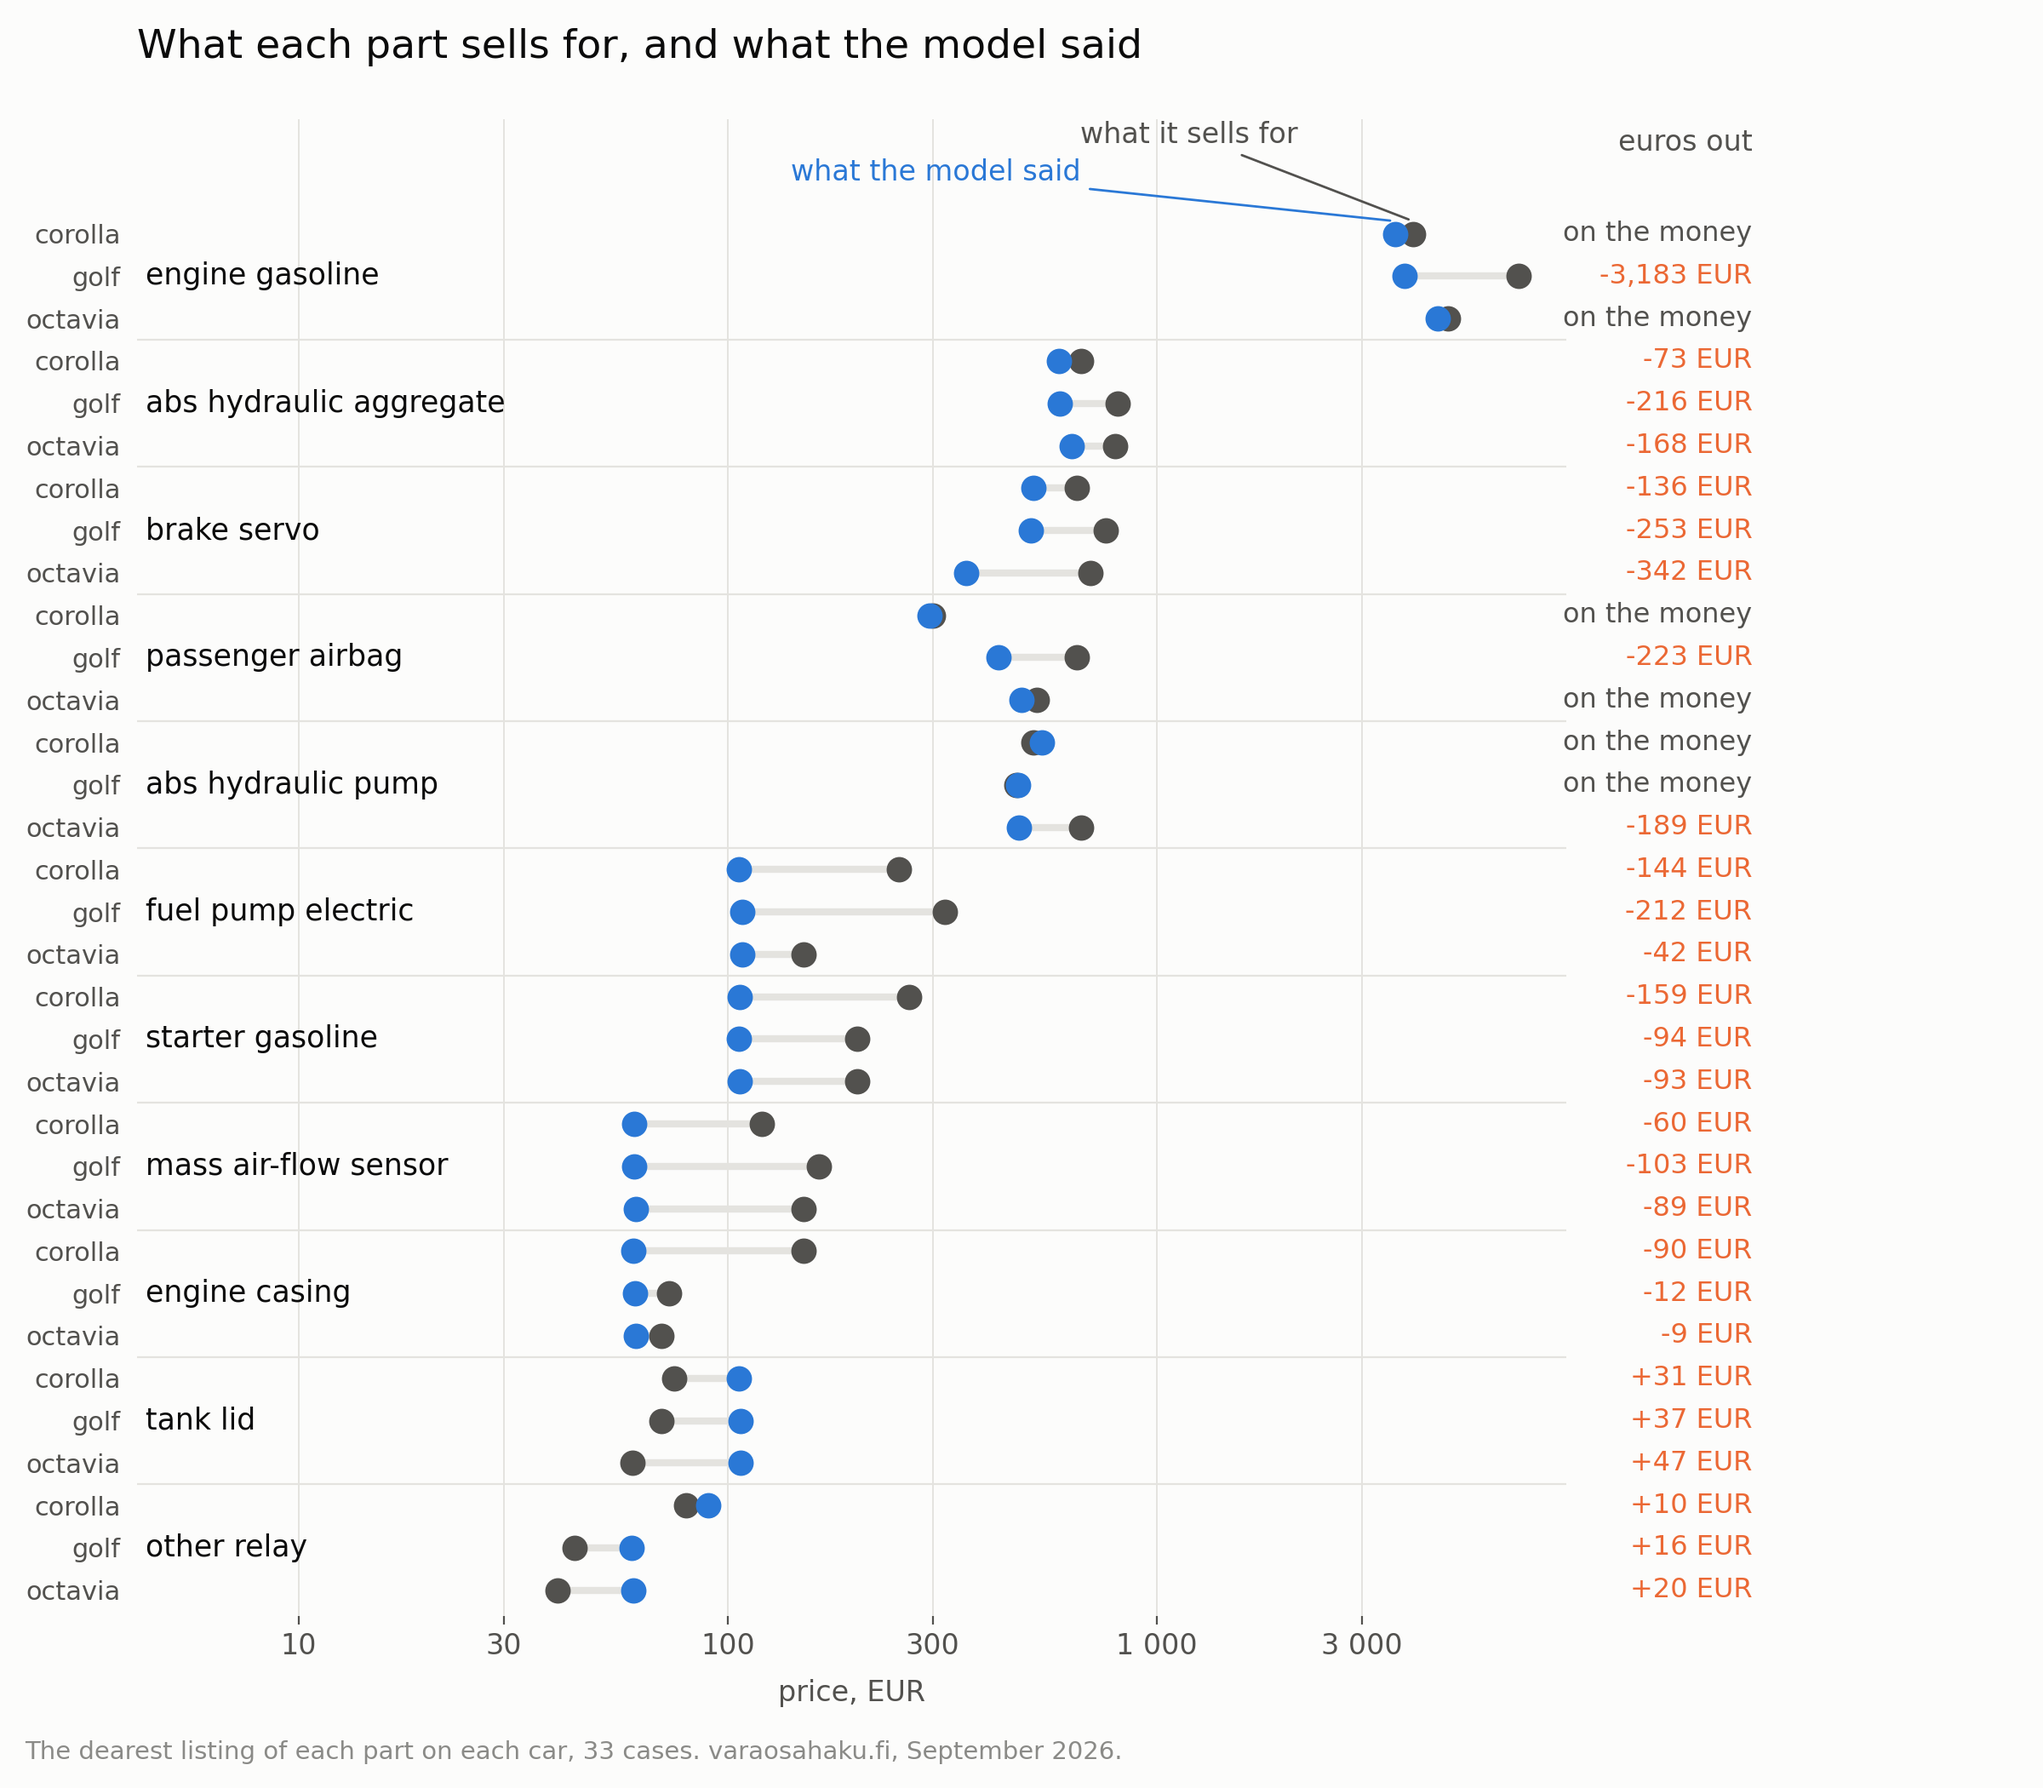
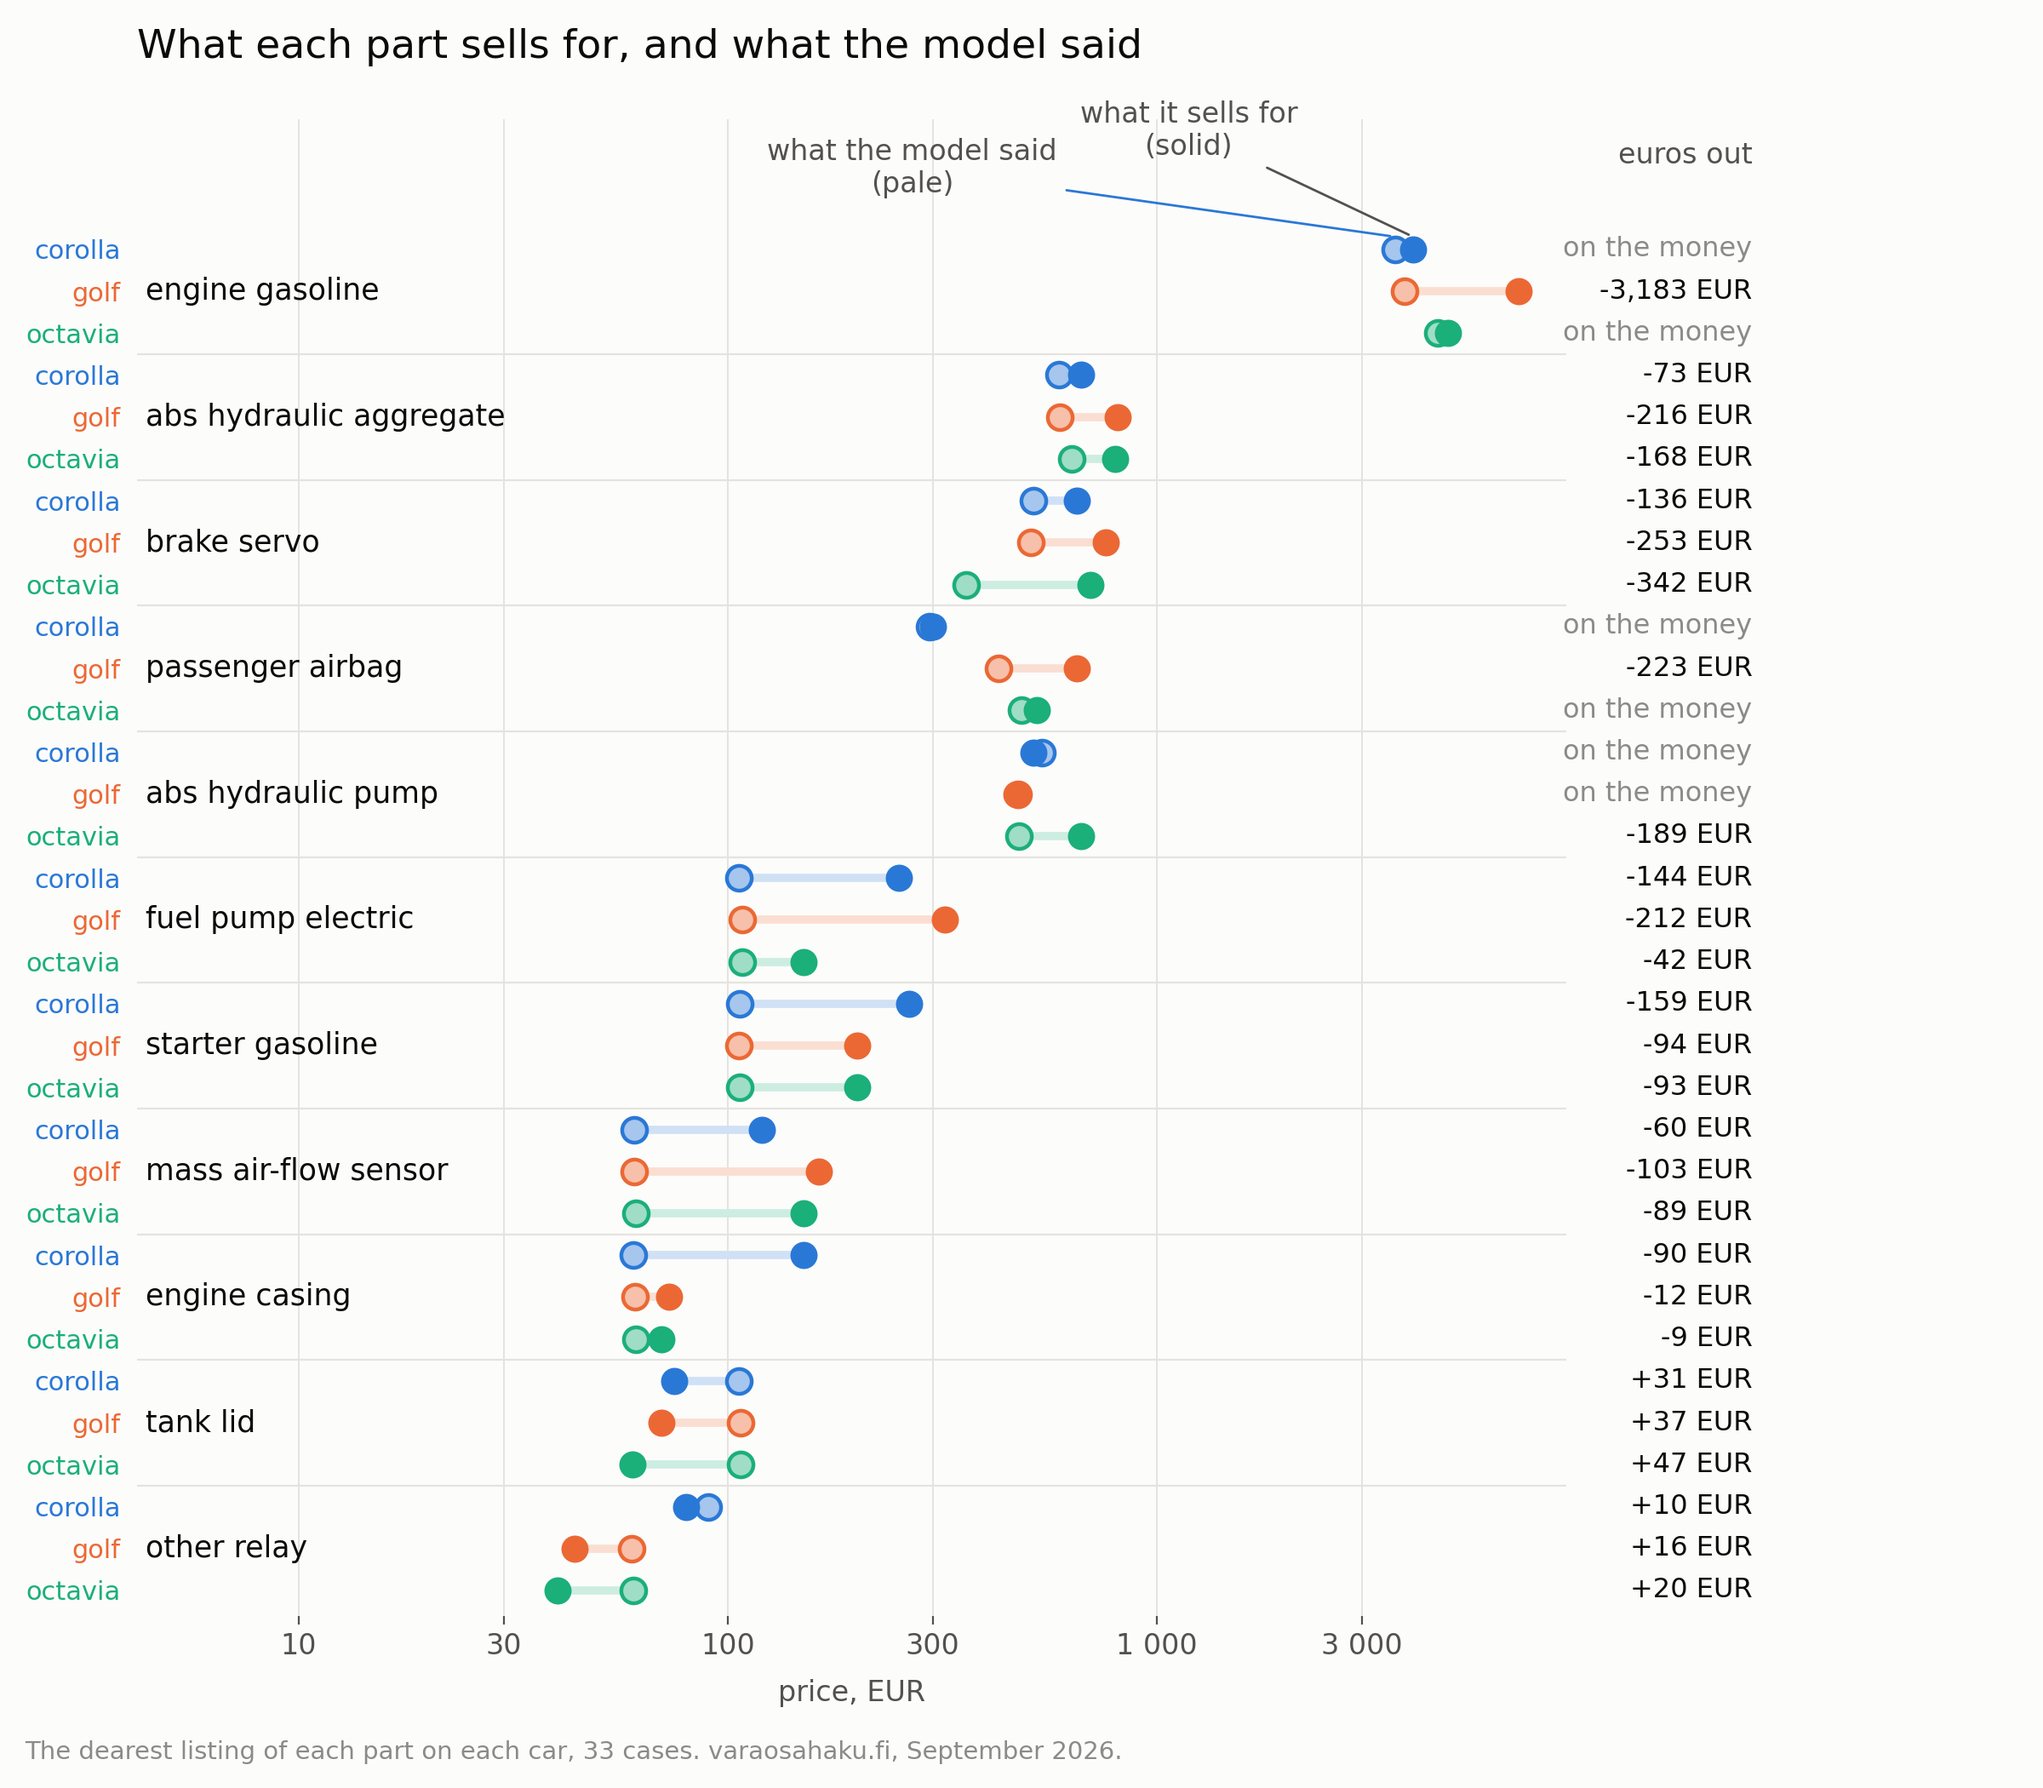
Colour the validation figure by car

diff --git a/scripts/plot_september_validation.py b/scripts/plot_september_validation.py
@@ -29,6 +29,7 @@ import matplotlib
 
 matplotlib.use("Agg")
 
+import matplotlib.colors as mcolors
 import matplotlib.pyplot as plt
 import numpy as np
 import pandas as pd
@@ -102,6 +103,17 @@ def three_per_cell(listings):
 
 CAR_ORDER = ["corolla", "golf", "octavia"]
 
+# One hue per car, so a part's three rows read as a block. Validated all-pairs
+# for normal vision and CVD; the aqua sits under 3:1 on this surface, which the
+# per-row car label covers -- identity is never carried by colour alone.
+CAR_COLOUR = {"corolla": "#2a78d6", "golf": "#eb6834", "octavia": "#1baf7a"}
+
+
+def tint(hex_colour, amount=0.58):
+    """Lighter step of the same hue: the model's guess against the real price."""
+    red, green, blue = mcolors.to_rgb(hex_colour)
+    return tuple(channel + (1 - channel) * amount for channel in (red, green, blue))
+
 
 def main():
     drawn = three_per_cell(scored_listings())
@@ -135,9 +147,12 @@ def main():
     outside = blended_transform_factory(axes.transAxes, axes.transData)
 
     for row, cell in zip(rows, cells.itertuples()):
-        axes.plot([cell.price, cell.predicted], [row, row], color=GRID, lw=3, zorder=1)
-    axes.scatter(cells.price, rows, s=95, color=INK2, zorder=3)
-    axes.scatter(cells.predicted, rows, s=95, color=BLUE, zorder=3)
+        colour = CAR_COLOUR[cell.car]
+        axes.plot([cell.price, cell.predicted], [row, row], color=tint(colour, 0.78),
+                  lw=3.5, zorder=1, solid_capstyle="round")
+        axes.scatter(cell.predicted, row, s=110, color=tint(colour), zorder=3,
+                     edgecolors=colour, linewidths=1.6)
+        axes.scatter(cell.price, row, s=110, color=colour, zorder=4)
 
     for row, cell in zip(rows, cells.itertuples()):
         off = cell.euros_off
@@ -145,7 +160,7 @@ def main():
         axes.text(
             1.13, row, "on the money" if close else f"{off:+,.0f} EUR",
             transform=outside, va="center", ha="right", fontsize=11.5,
-            color=INK2 if close else ORANGE,
+            color=MUTED if close else INK,
         )
 
     # one part label per group, plus a hairline between groups
@@ -159,7 +174,7 @@ def main():
     axes.set_yticks(rows, cells.car, fontsize=11)
     axes.set_xscale("log")
     axes.set_xlim(4.2, 9000)
-    axes.set_ylim(len(cells) - 0.4, -2.7)
+    axes.set_ylim(len(cells) - 0.4, -3.1)
     axes.set_xticks([10, 30, 100, 300, 1000, 3000],
                     ["10", "30", "100", "300", "1 000", "3 000"], fontsize=12)
     axes.set_xticks([], minor=True)
@@ -172,14 +187,18 @@ def main():
 
     # direct labels on the first row instead of a legend box
     first = cells.iloc[0]
-    axes.annotate("what it sells for", xy=(first.price, -0.3), xytext=(first.price * 0.30, -2.15),
-                  fontsize=12, color=INK2, ha="center",
+    first_colour = CAR_COLOUR[first.car]
+    axes.annotate("what it sells for\n(solid)", xy=(first.price, -0.3),
+                  xytext=(first.price * 0.30, -2.25), fontsize=12, color=INK2, ha="center",
                   arrowprops=dict(arrowstyle="-", color=INK2, lw=1))
-    axes.annotate("what the model said", xy=(first.predicted, -0.3),
-                  xytext=(first.predicted * 0.085, -1.25), fontsize=12, color=BLUE, ha="center",
-                  arrowprops=dict(arrowstyle="-", color=BLUE, lw=1))
-    axes.text(1.13, -2.15, "euros out", transform=outside, va="center", ha="right",
+    axes.annotate("what the model said\n(pale)", xy=(first.predicted, -0.3),
+                  xytext=(first.predicted * 0.075, -1.35), fontsize=12, color=INK2, ha="center",
+                  arrowprops=dict(arrowstyle="-", color=first_colour, lw=1))
+    axes.text(1.13, -2.25, "euros out", transform=outside, va="center", ha="right",
               fontsize=12, color=INK2)
+
+    for label, car in zip(axes.get_yticklabels(), cells.car):
+        label.set_color(CAR_COLOUR[car])
 
     axes.set_title(
         "What each part sells for, and what the model said",
